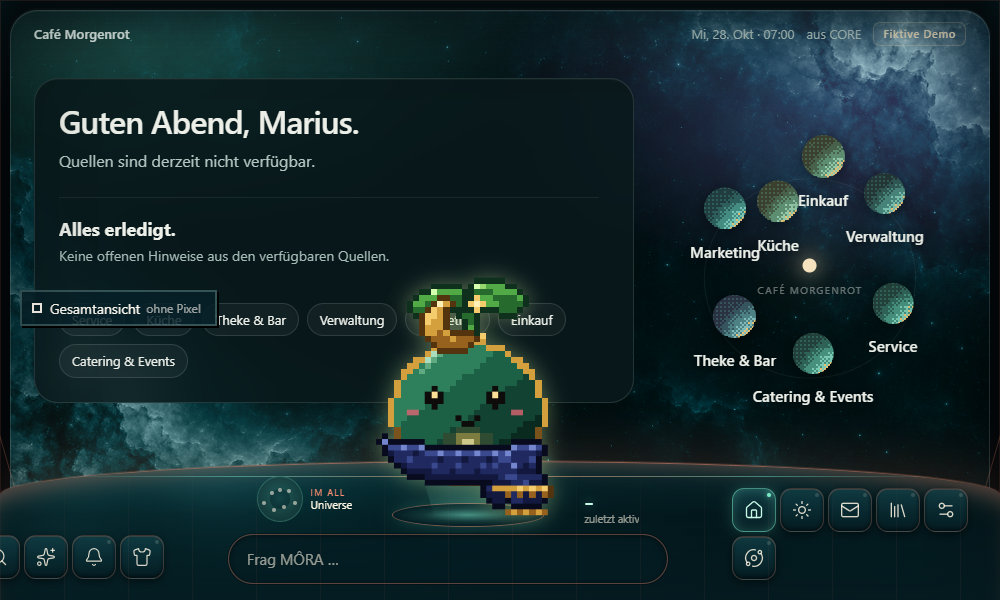
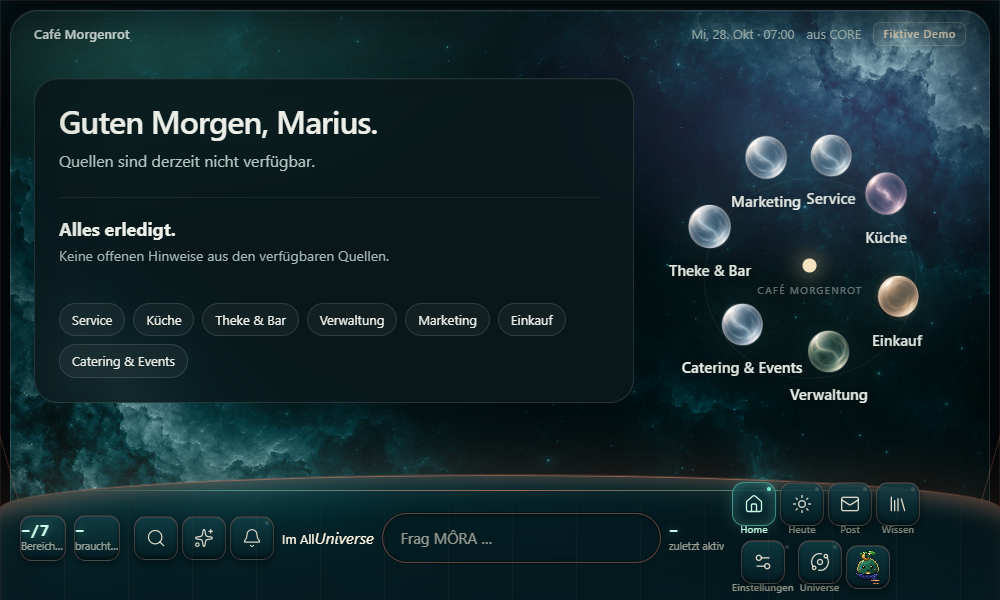
feat(universe): einklappbares Handy-Briefing, sichere Pfadabfrage & 9 frische Screenshots

diff --git a/features/universe/ui/UnifiedUniverse.tsx b/features/universe/ui/UnifiedUniverse.tsx
@@ -318,6 +318,7 @@ export function UnifiedUniverse({
   const [moonId, setMoonId] = useState<string | null>(null);
   const [deptSheetOpen, setDeptSheetOpen] = useState(false);
   const [wizardOpen, setWizardOpen] = useState(false);
+  const [mobileBriefingOpen, setMobileBriefingOpen] = useState(false);
 
   // Style state: 'glas' (HQ-Gesamtansicht mit dunklen Glasplaneten) oder 'pixel' (HQ-Pixelansicht mit Mini-Monden)
   // Genau EIN Umschalter (.wd-view links auf halber Höhe)
@@ -578,13 +579,77 @@ export function UnifiedUniverse({
         </div>
       </header>
 
-      {/* Morning Briefing (if data is available) */}
+      {/* Morning Briefing: Desktop linke Seite, Handy als einklappbare Zeile oben (überdeckt nichts) */}
       {!phone && briefings.length > 0 && !planet ? (
         <div
           className="ck-briefing-wrap"
           style={{ position: 'absolute', top: 72, left: 24, zIndex: 12, maxWidth: 360 }}
         >
           <BriefingStack briefings={briefings} />
+        </div>
+      ) : phone && briefings.length > 0 && !planet ? (
+        <div
+          className="ck-briefing-mobile"
+          style={{
+            position: 'absolute',
+            top: 52,
+            left: 12,
+            right: 12,
+            zIndex: 25,
+            maxWidth: 366,
+            margin: '0 auto',
+          }}
+          data-testid="universe-briefing-mobile"
+        >
+          <button
+            type="button"
+            onClick={() => setMobileBriefingOpen((o) => !o)}
+            style={{
+              width: '100%',
+              display: 'flex',
+              alignItems: 'center',
+              justifyContent: 'space-between',
+              padding: '6px 12px',
+              borderRadius: 10,
+              background: 'rgba(8, 22, 27, 0.88)',
+              border: '1px solid rgba(184, 212, 202, 0.18)',
+              backdropFilter: 'blur(12px)',
+              color: 'inherit',
+              textAlign: 'left',
+              cursor: 'pointer',
+              boxShadow: '0 4px 12px rgba(0,0,0,0.35)',
+            }}
+            aria-expanded={mobileBriefingOpen}
+            aria-label="Morgen-Briefing umschalten"
+          >
+            <div style={{ display: 'flex', alignItems: 'center', gap: 8, overflow: 'hidden' }}>
+              <span style={{ width: 6, height: 6, borderRadius: '50%', background: 'rgb(var(--c-jade, 111,199,164))', flexShrink: 0 }} />
+              <span style={{ fontSize: 11, textTransform: 'uppercase', letterSpacing: '0.08em', color: 'rgba(255,255,255,0.65)', flexShrink: 0 }}>
+                Briefing
+              </span>
+              <span style={{ fontSize: 12, color: 'rgba(255,255,255,0.92)', overflow: 'hidden', textOverflow: 'ellipsis', whiteSpace: 'nowrap' }}>
+                {briefings[0]?.title}
+              </span>
+            </div>
+            <span style={{ fontSize: 11, color: 'rgba(255,255,255,0.45)', marginLeft: 8, flexShrink: 0 }}>
+              {mobileBriefingOpen ? '▲' : '▼'}
+            </span>
+          </button>
+          {mobileBriefingOpen ? (
+            <div
+              style={{
+                marginTop: 6,
+                padding: '12px 14px',
+                borderRadius: 12,
+                background: 'rgba(8, 22, 27, 0.94)',
+                border: '1px solid rgba(184, 212, 202, 0.22)',
+                backdropFilter: 'blur(16px)',
+                boxShadow: '0 8px 24px rgba(0,0,0,0.5)',
+              }}
+            >
+              <BriefingStack briefings={briefings} />
+            </div>
+          ) : null}
         </div>
       ) : null}
 

diff --git a/__tests__/features/universe/unifiedUniverse.test.tsx b/__tests__/features/universe/unifiedUniverse.test.tsx
@@ -134,16 +134,15 @@ describe('Ein Universe statt zwei + MÔRA-Größe im Dock', () => {
     expect(universeSurfaceContainer.querySelectorAll('[data-testid="world-mora"]').length).toBe(1);
     unmountUniverse();
 
-    // 2. Einstieg Home (LiveCockpit mit view="universe")
-    const { container: cockpitUniverseContainer, unmount: unmountCockpit } = render(
+    // 2. Einstieg Home (LiveCockpit mit initialView="universe" delegiert zur zentralen UniverseSurface)
+    const navigateMock = jest.fn();
+    const { unmount: unmountCockpit } = render(
       <QueryClientProvider client={qc}>
-        <LiveCockpit navigate={jest.fn()} initialView="universe" />
+        <LiveCockpit navigate={navigateMock} initialView="universe" />
       </QueryClientProvider>
     );
 
-    expect(screen.getByTestId('universe-unified')).toBeInTheDocument();
-    expect(screen.getByTestId('world-view-toggle')).toBeInTheDocument();
-    expect(cockpitUniverseContainer.querySelectorAll('[data-testid="world-mora"]').length).toBe(1);
+    expect(navigateMock).toHaveBeenCalledWith('universe');
     unmountCockpit();
   });
 

diff --git a/app/layout.tsx b/app/layout.tsx
@@ -42,9 +42,11 @@ export default function RootLayout({
     pathname === "/login" ||
     pathname === "/entry" ||
     pathname === "/reset-password" ||
-    pathname.startsWith("/begleiter") ||
-    pathname.startsWith("/join") ||
-    pathname.startsWith("/oauth");
+    Boolean(
+      pathname?.startsWith("/begleiter") ||
+      pathname?.startsWith("/join") ||
+      pathname?.startsWith("/oauth")
+    );
 
   // Fix hydration mismatch from browser extensions
   useEffect(() => {
